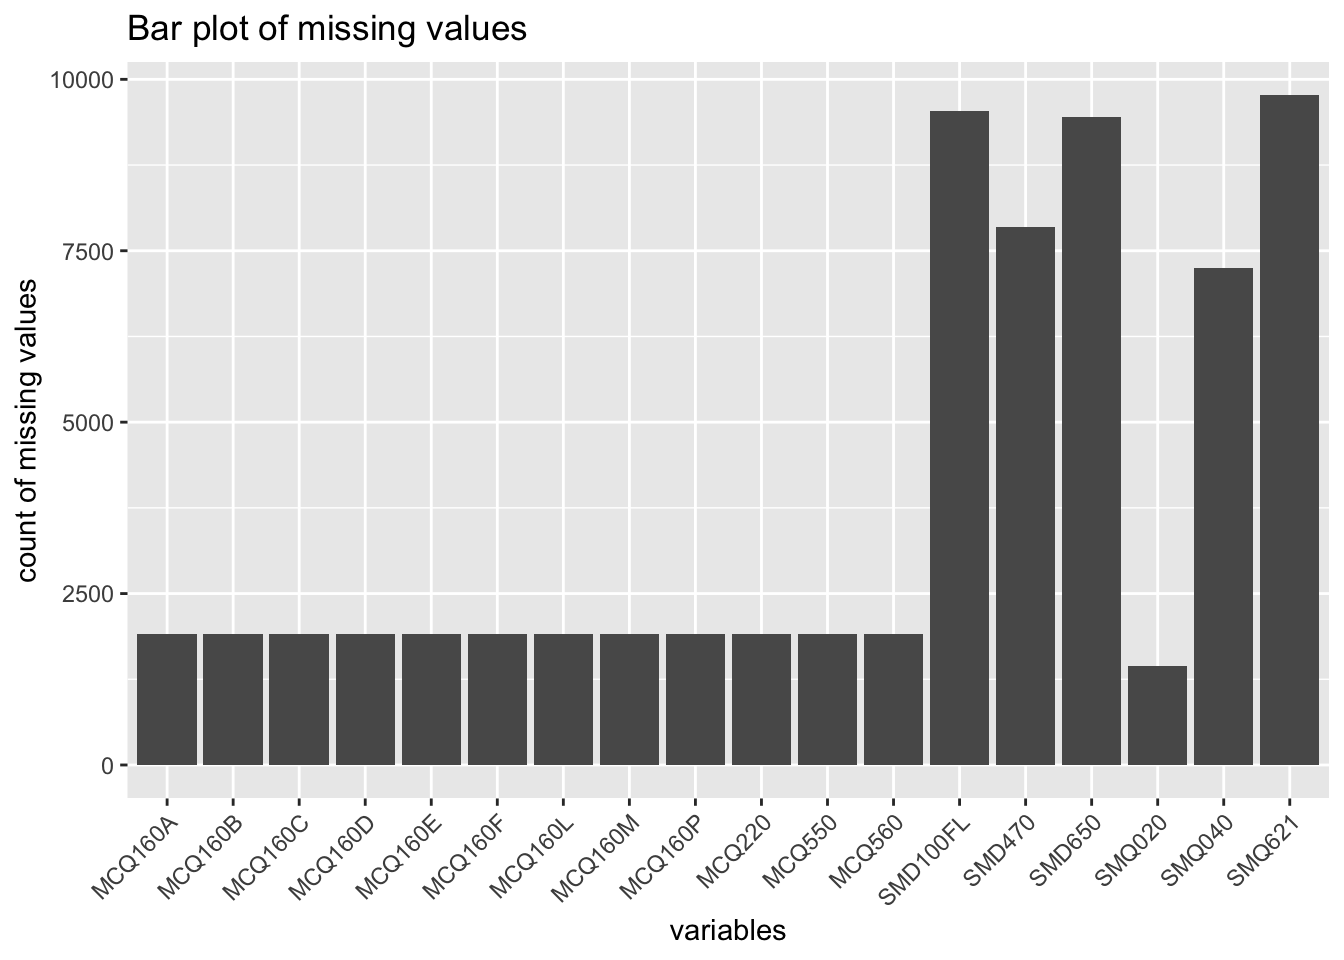
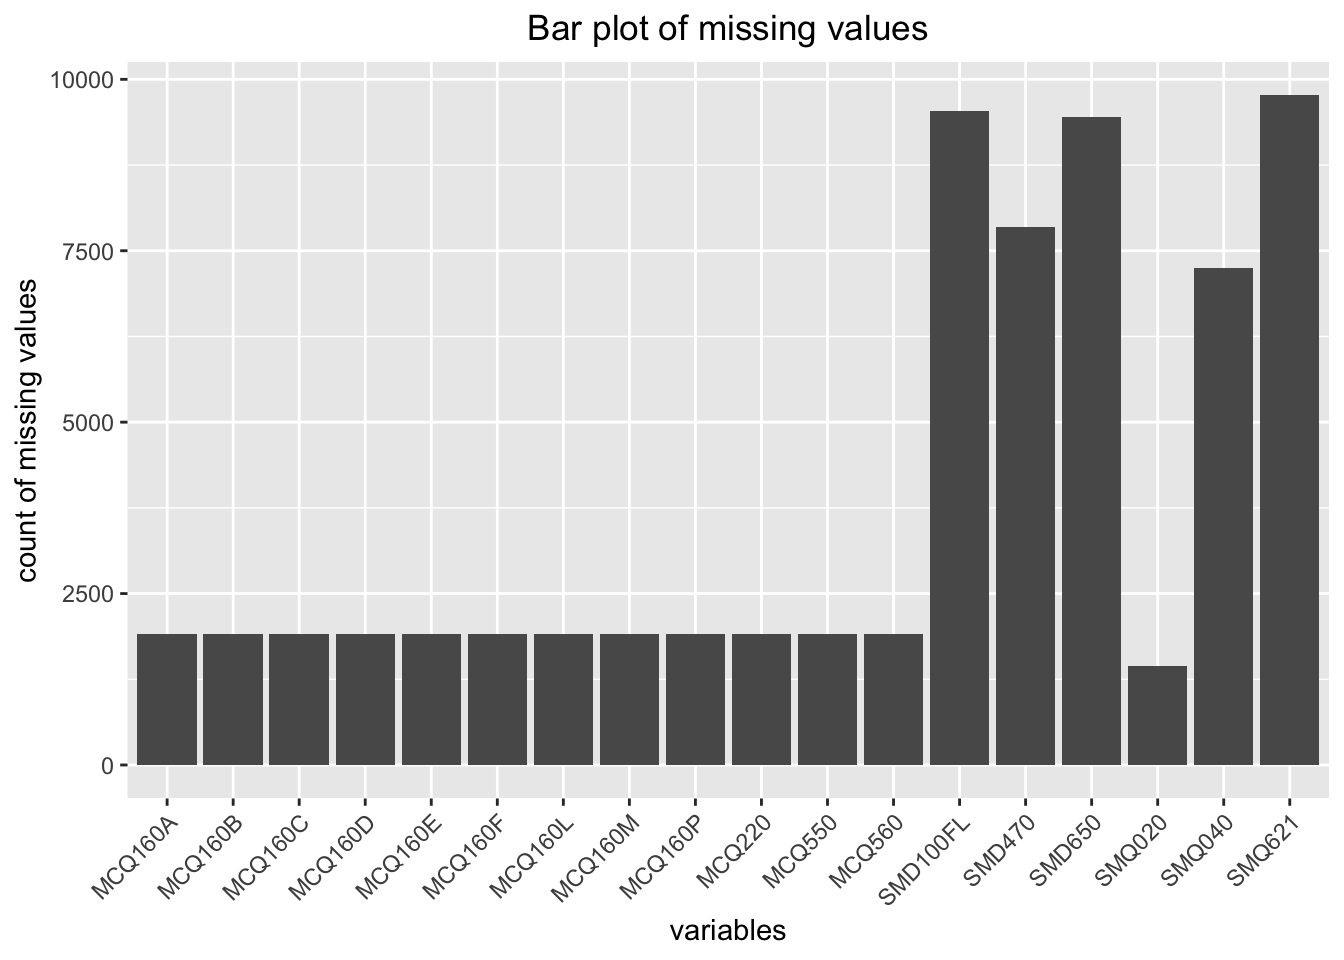
Add files via upload

Changed region(s): [[0.0938, 0.0, 0.6875, 0.0625]]

diff --git a/docs/data.html b/docs/data.html
@@ -363,7 +363,8 @@ pre > code.sourceCode > span > a:first-child::before { text-decoration: underlin
 <summary>Code</summary>
 <div class="sourceCode cell-code" id="cb3"><pre class="sourceCode r code-with-copy"><code class="sourceCode r"><span id="cb3-1"><a href="#cb3-1" aria-hidden="true" tabindex="-1"></a><span class="fu">ggplot</span>(missing) <span class="sc">+</span> <span class="fu">geom_bar</span>(<span class="fu">aes</span>(<span class="at">x =</span> key, <span class="at">y =</span> num.missing), <span class="at">stat =</span> <span class="st">'identity'</span>) <span class="sc">+</span></span>
 <span id="cb3-2"><a href="#cb3-2" aria-hidden="true" tabindex="-1"></a>  <span class="fu">labs</span>(<span class="at">x =</span> <span class="st">'variables'</span>, <span class="at">y =</span> <span class="st">'count of missing values'</span>, <span class="at">title =</span> <span class="st">'Bar plot of missing values'</span>) <span class="sc">+</span></span>
-<span id="cb3-3"><a href="#cb3-3" aria-hidden="true" tabindex="-1"></a>  <span class="fu">theme</span>(<span class="at">axis.text.x =</span> <span class="fu">element_text</span>(<span class="at">angle =</span> <span class="dv">45</span>, <span class="at">hjust =</span> <span class="dv">1</span>))</span></code><button title="Copy to Clipboard" class="code-copy-button"><i class="bi"></i></button></pre></div>
+<span id="cb3-3"><a href="#cb3-3" aria-hidden="true" tabindex="-1"></a>  <span class="fu">theme</span>(<span class="at">plot.title=</span><span class="fu">element_text</span>(<span class="at">hjust =</span> <span class="fl">0.5</span>),</span>
+<span id="cb3-4"><a href="#cb3-4" aria-hidden="true" tabindex="-1"></a>        <span class="at">axis.text.x =</span> <span class="fu">element_text</span>(<span class="at">angle =</span> <span class="dv">45</span>, <span class="at">hjust =</span> <span class="dv">1</span>))</span></code><button title="Copy to Clipboard" class="code-copy-button"><i class="bi"></i></button></pre></div>
 </details>
 <div class="cell-output-display">
 <p><img src="data_files/figure-html/unnamed-chunk-4-1.png" class="img-fluid" width="672"></p>
@@ -379,9 +380,10 @@ pre > code.sourceCode > span > a:first-child::before { text-decoration: underlin
 <span id="cb4-5"><a href="#cb4-5" aria-hidden="true" tabindex="-1"></a><span class="fu">ggplot</span>(pie, <span class="fu">aes</span>(<span class="at">x =</span> <span class="st">''</span>, <span class="at">y =</span> value, <span class="at">fill =</span> category)) <span class="sc">+</span> <span class="fu">geom_col</span>() <span class="sc">+</span></span>
 <span id="cb4-6"><a href="#cb4-6" aria-hidden="true" tabindex="-1"></a>  <span class="fu">coord_polar</span>(<span class="at">theta =</span> <span class="st">'y'</span>, <span class="at">start =</span> <span class="dv">0</span>) <span class="sc">+</span> <span class="fu">facet_wrap</span>(<span class="sc">~</span>variable) <span class="sc">+</span> </span>
 <span id="cb4-7"><a href="#cb4-7" aria-hidden="true" tabindex="-1"></a>  <span class="fu">labs</span>(<span class="at">x =</span> <span class="st">''</span>, <span class="at">y =</span> <span class="st">''</span>, <span class="at">title =</span> <span class="st">'Pie charts of missing values'</span>) <span class="sc">+</span></span>
-<span id="cb4-8"><a href="#cb4-8" aria-hidden="true" tabindex="-1"></a>  <span class="fu">theme</span>(<span class="at">axis.text =</span> <span class="fu">element_blank</span>(),</span>
-<span id="cb4-9"><a href="#cb4-9" aria-hidden="true" tabindex="-1"></a>        <span class="at">axis.ticks =</span> <span class="fu">element_blank</span>(),</span>
-<span id="cb4-10"><a href="#cb4-10" aria-hidden="true" tabindex="-1"></a>        <span class="at">panel.grid  =</span> <span class="fu">element_blank</span>())</span></code><button title="Copy to Clipboard" class="code-copy-button"><i class="bi"></i></button></pre></div>
+<span id="cb4-8"><a href="#cb4-8" aria-hidden="true" tabindex="-1"></a>  <span class="fu">theme</span>(<span class="at">plot.title=</span><span class="fu">element_text</span>(<span class="at">hjust =</span> <span class="fl">0.5</span>),</span>
+<span id="cb4-9"><a href="#cb4-9" aria-hidden="true" tabindex="-1"></a>        <span class="at">axis.text =</span> <span class="fu">element_blank</span>(),</span>
+<span id="cb4-10"><a href="#cb4-10" aria-hidden="true" tabindex="-1"></a>        <span class="at">axis.ticks =</span> <span class="fu">element_blank</span>(),</span>
+<span id="cb4-11"><a href="#cb4-11" aria-hidden="true" tabindex="-1"></a>        <span class="at">panel.grid  =</span> <span class="fu">element_blank</span>())</span></code><button title="Copy to Clipboard" class="code-copy-button"><i class="bi"></i></button></pre></div>
 </details>
 <div class="cell-output-display">
 <p><img src="data_files/figure-html/unnamed-chunk-5-1.png" class="img-fluid" width="672"></p>
@@ -512,8 +514,9 @@ pre > code.sourceCode > span > a:first-child::before { text-decoration: underlin
 <div class="sourceCode cell-code" id="cb9"><pre class="sourceCode r code-with-copy"><code class="sourceCode r"><span id="cb9-1"><a href="#cb9-1" aria-hidden="true" tabindex="-1"></a>cormat <span class="ot">&lt;-</span> <span class="fu">round</span>(<span class="fu">cor</span>(data[, <span class="dv">2</span><span class="sc">:</span><span class="dv">13</span>]),<span class="dv">2</span>)</span>
 <span id="cb9-2"><a href="#cb9-2" aria-hidden="true" tabindex="-1"></a><span class="fu">ggplot</span>(<span class="at">data =</span> <span class="fu">melt</span>(cormat), <span class="fu">aes</span>(<span class="at">x=</span>Var1, <span class="at">y=</span>Var2, <span class="at">fill=</span>value)) <span class="sc">+</span> </span>
 <span id="cb9-3"><a href="#cb9-3" aria-hidden="true" tabindex="-1"></a>  <span class="fu">geom_tile</span>() <span class="sc">+</span></span>
-<span id="cb9-4"><a href="#cb9-4" aria-hidden="true" tabindex="-1"></a>  <span class="fu">theme</span>(<span class="at">axis.text.x =</span> <span class="fu">element_text</span>(<span class="at">angle =</span> <span class="dv">45</span>, <span class="at">hjust =</span> <span class="dv">1</span>))<span class="sc">+</span></span>
-<span id="cb9-5"><a href="#cb9-5" aria-hidden="true" tabindex="-1"></a>  <span class="fu">labs</span>(<span class="at">x =</span> <span class="st">'variables'</span>, <span class="at">y =</span> <span class="st">'variables'</span>, <span class="at">title =</span> <span class="st">'Correlation Heatmap'</span>)</span></code><button title="Copy to Clipboard" class="code-copy-button"><i class="bi"></i></button></pre></div>
+<span id="cb9-4"><a href="#cb9-4" aria-hidden="true" tabindex="-1"></a>  <span class="fu">theme</span>(<span class="at">plot.title=</span><span class="fu">element_text</span>(<span class="at">hjust =</span> <span class="fl">0.5</span>),</span>
+<span id="cb9-5"><a href="#cb9-5" aria-hidden="true" tabindex="-1"></a>        <span class="at">axis.text.x =</span> <span class="fu">element_text</span>(<span class="at">angle =</span> <span class="dv">45</span>, <span class="at">hjust =</span> <span class="dv">1</span>))<span class="sc">+</span></span>
+<span id="cb9-6"><a href="#cb9-6" aria-hidden="true" tabindex="-1"></a>  <span class="fu">labs</span>(<span class="at">x =</span> <span class="st">'variables'</span>, <span class="at">y =</span> <span class="st">'variables'</span>, <span class="at">title =</span> <span class="st">'Correlation Heatmap'</span>)</span></code><button title="Copy to Clipboard" class="code-copy-button"><i class="bi"></i></button></pre></div>
 </details>
 <div class="cell-output-display">
 <p><img src="data_files/figure-html/heatmap after selection-1.png" class="img-fluid" width="672"></p>

diff --git a/scripts/myscript.js b/scripts/myscript.js
@@ -1,1 +1,103 @@
 // add your JavaScript/D3 to this file
+
+  const w = 400;
+  const h = 300;
+  const margin = {top: 20, right: 30, bottom: 30, left: 30 };
+  const innerWidth = w - margin.left - margin.right;
+  const innerHeight = h - margin.top - margin.bottom;
+
+  const svg = d3.select("div#plot")
+      .append("svg")
+      .attr("width", w)
+      .attr("height", h);
+
+  svg.append("rect")
+      .attr("x", 0)
+      .attr("y", 0)
+      .attr("width", w)
+      .attr("height", h)
+      .attr("fill", "lightblue");
+
+  const data = [18.1, 17.8, 16.8, 15.1, 15.5, 14.0, 13.7];
+
+  const xScale = d3.scaleBand()
+      .domain(d3.range([data.length]))
+      .range([0,innerWidth]);
+
+  const yScale = d3.scaleLinear()
+      .domain([0, d3.max(data)])
+      .range([innerHeight, 0])
+
+  const xAxis = d3.axisBottom()
+      .scale(xScale);
+
+  const yAxis = d3.axisLeft()
+      .scale(yScale);
+
+  const bars = svg.append("g")
+      .attr("id", "plot")
+      .attr("transform", `translate (${margin.left}, ${margin.top})`)
+    .selectAll("rect")
+      .data(data);
+
+  bars.enter().append("rect")
+      .attr("x", (d, i) => xScale(i))
+      .attr("y", d => yScale(d))
+      .attr("width", xScale.bandwidth())
+      .attr("height", d => innerHeight - yScale(d))
+      .attr("fill", "steelblue");
+
+  svg.append("g")
+      .attr("class", "xAxis")
+      .attr("transform", `translate (${margin.left}, ${h - margin.bottom})`)
+      .call(xAxis);
+
+  svg.append("g")
+      .attr("class", "yAxis")
+      .attr("transform", `translate (${margin.left}, ${margin.top})`)
+      .call(yAxis);
+
+// General Update Pattern
+
+  function update(data) {
+
+    xScale.domain(d3.range(data.length));
+
+    yScale.domain([0, d3.max(data)]);
+
+    const bars = svg.select("#plot")
+        .selectAll("rect")
+        .data(data);
+
+    bars.enter().append("rect")
+      .merge(bars)
+      .attr("x", (d, i) => xScale(i))
+      .attr("y", d => yScale(d))
+      .attr("width", xScale.bandwidth())
+      .attr("height", d => innerHeight - yScale(d))
+      .attr("fill", "steelblue");
+
+    bars.exit().remove();
+
+    svg.select(".xAxis")
+        .call(xAxis);
+
+    svg.select(".yAxis")
+        .call(yAxis);
+
+  }
+
+
+    function add() {
+      var left = Math.floor(Math.random()*data.length);
+      var right = left + Math.floor(Math.random()*(data.length-left));
+      var newvalue = data[data.length-1] + (data[right] - data[left]);
+      data.push(newvalue);
+      update(data);
+    }
+
+    function remove() {
+      data.pop();
+      update(data);
+      };
+

diff --git a/docs/conclusion.html b/docs/conclusion.html
@@ -159,6 +159,10 @@ ul.task-list li input[type="checkbox"] {
 
 </header>
 
+<p>In this study, we examine the association between smoking exposure and health-related issues in the United States. To facilitate comparisons with previous studies mentioned in the Introduction, we use data gathered by the Centers for Disease Control and Prevention, from over 5000 people around the nation. We combined three datasets to study the association between ten health-related issues and both first-handed and second-handed smoking exposure. After exploring the combined dataset, we drop columns with too many missing values and redundant features. The remained dataset has two smoke-related features, or the independent features, and ten health-related issues, or the dependent features.</p>
+<p>For first-handed smoking exposure, we explore the smoking frequency. For second-handed smoking exposure, we examine the number of smokers (except the questionnaire-respondent) in the respondent’s household. For the ten health-related issues, we focus on diseases. Some selected diseases - include stroke, coronary heart disease, and cancer - were recognized as smoking-related issues in previous studies.</p>
+<p>After applying multiple data visualization techniques, as shown in the Results section, we arrive at the following conclusions: both first-handed and second-handed smoking exposures has an influence on people’s health condition in the United States, and the influences are similar for the two independent features. Smoking exposure has positive correlation with getting asthma, arthritis, COPD, emphysema, and ChB: the proportion of people who smoke daily or have more smokers in household is larger than that of people who do not smoke that often or have fewer smokers in household. On the other hand, the association between smoking exposure and coronary heart disease is not explicit: contradicts the previous studies.</p>
+<p>A possible cause of the contradiction could be the lag of effect of smoking: if a person start to smoke and smoke daily, he or she may not have a health-related issue related to smoking. This pattern could be related to people’s age. In future studies, we will further explore the impact of people’s age and how many years they smoke. Despite this abnormality, our study conforms with the previous ones: that is, both first-handed and second-handed smoking exposures has an association with health-related issues in the United States.</p>
 
 
 

diff --git a/docs/scripts/myscript.js b/docs/scripts/myscript.js
@@ -2,8 +2,7 @@
 
   const w = 400;
   const h = 300;
-  const margin = {top: 25, right: 0, bottom: 25,
-      left: 25};
+  const margin = {top: 20, right: 30, bottom: 30, left: 30 };
   const innerWidth = w - margin.left - margin.right;
   const innerHeight = h - margin.top - margin.bottom;
 
@@ -19,15 +18,14 @@
       .attr("height", h)
       .attr("fill", "lightblue");
 
-  const bardata = [300, 100, 150, 220, 70, 270];
+  const data = [18.1, 17.8, 16.8, 15.1, 15.5, 14.0, 13.7];
 
   const xScale = d3.scaleBand()
-      .domain(d3.range(bardata.length))
-      .range([0, innerWidth])
-      .paddingInner(.1);
+      .domain(d3.range([data.length]))
+      .range([0,innerWidth]);
 
   const yScale = d3.scaleLinear()
-      .domain([0, d3.max(bardata)])
+      .domain([0, d3.max(data)])
       .range([innerHeight, 0])
 
   const xAxis = d3.axisBottom()
@@ -40,14 +38,14 @@
       .attr("id", "plot")
       .attr("transform", `translate (${margin.left}, ${margin.top})`)
     .selectAll("rect")
-      .data(bardata);
+      .data(data);
 
   bars.enter().append("rect")
       .attr("x", (d, i) => xScale(i))
       .attr("y", d => yScale(d))
       .attr("width", xScale.bandwidth())
       .attr("height", d => innerHeight - yScale(d))
-      .attr("fill", "green");
+      .attr("fill", "steelblue");
 
   svg.append("g")
       .attr("class", "xAxis")
@@ -77,7 +75,7 @@
       .attr("y", d => yScale(d))
       .attr("width", xScale.bandwidth())
       .attr("height", d => innerHeight - yScale(d))
-      .attr("fill", "green");
+      .attr("fill", "steelblue");
 
     bars.exit().remove();
 
@@ -91,12 +89,15 @@
 
 
     function add() {
-      var newvalue = Math.floor(Math.random()*400);
-      bardata.push(newvalue);
-      update(bardata);
+      var left = Math.floor(Math.random()*data.length);
+      var right = left + Math.floor(Math.random()*(data.length-left));
+      var newvalue = data[data.length-1] + (data[right] - data[left]);
+      data.push(newvalue);
+      update(data);
     }
 
     function remove() {
-      bardata.pop();
-      update(bardata);
+      data.pop();
+      update(data);
       };
+

diff --git a/docs/d3graph.html b/docs/d3graph.html
@@ -169,6 +169,7 @@ ul.task-list li input[type="checkbox"] {
 
 </div>
 <p>
+The plot shows the overall tobacco trends from 2012 to 2018, collected by <a href="https://www.lung.org/research/trends-in-lung-disease/tobacco-trends-brief/overall-tobacco-trends">American Lung Association</a>. Click ‘Add bar’ to add additional trend for next year, generated by picking two random tobacco trends from past records, in order, and add the change in trend to the latest record. Notice that the value is decreasing and could reach zero. Click ‘Remove bar’ to remove the latest bar and generate new ones.
 </p>
 <button type="button" onclick="add()">
 Add bar
